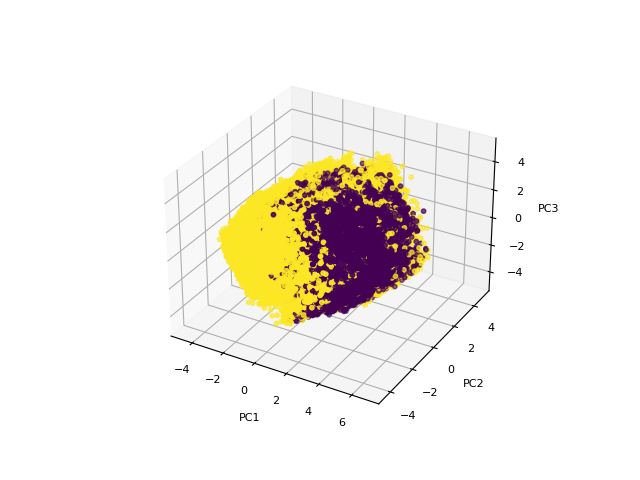
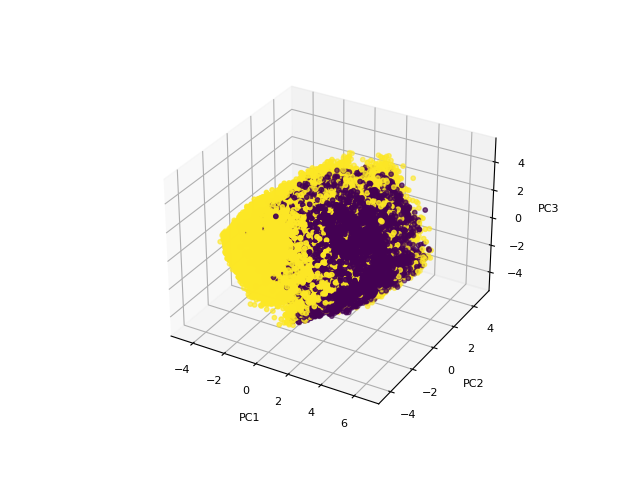
feature selection "completed"

diff --git a/ML/ml.py b/ML/ml.py
@@ -129,7 +129,7 @@ def treat_data(df):
     df.loc[:,'gender'] = df['gender'].replace({'Male':1, 'Female':0})
     df.loc[:,'loyalty'] = df['loyalty'].replace({'Loyal Customer':1, 'disloyal Customer':0})
     df.loc[:,'flight_class'] = df['flight_class'].replace({'Business':2, 'Eco Plus':1, 'Eco':0 })
-    df.loc[:,'type_travel'] = df['type_travel'].replace({'Business Travel':1,'Personal travel':0})
+    df.loc[:,'type_travel'] = df['type_travel'].replace({'Business travel':1,'Personal Travel':0})
     
     #print(df.dtypes)
 
@@ -284,13 +284,14 @@ def feature_selection(df, img_path):
     model = ExtraTreesClassifier(n_estimators=100, random_state=0)
     model.fit(X, Y)
 
-    fi = fit.transform(X)
+    idx = model.feature_importances_.argsort()[-3:]
+    selected_cols = [col_names[i] for i in idx]
 
-    selected_cols = [col_names[i] for i in model.feature_importances_.argsort()[-3:]]
+    fi = X[selected_cols].values
 
     plot_3d_scatter(fi,Y, selected_cols, "feature_importance", img_path)
 
-    print("Univariate Selection best Features:\t", selected_cols)
+    print("Feature Importance best Features:\t", selected_cols)
 
     return [us, rfe, pca, fi]
 
@@ -307,7 +308,7 @@ def main():
     #print(data.shape)
 
     #TODO: UNCOMMENT
-    visualize_data(data,IMG_PATH)
+    #visualize_data(data,IMG_PATH)
 
 
     [us, rfe, pca, fi] = feature_selection(data, IMG_PATH)
